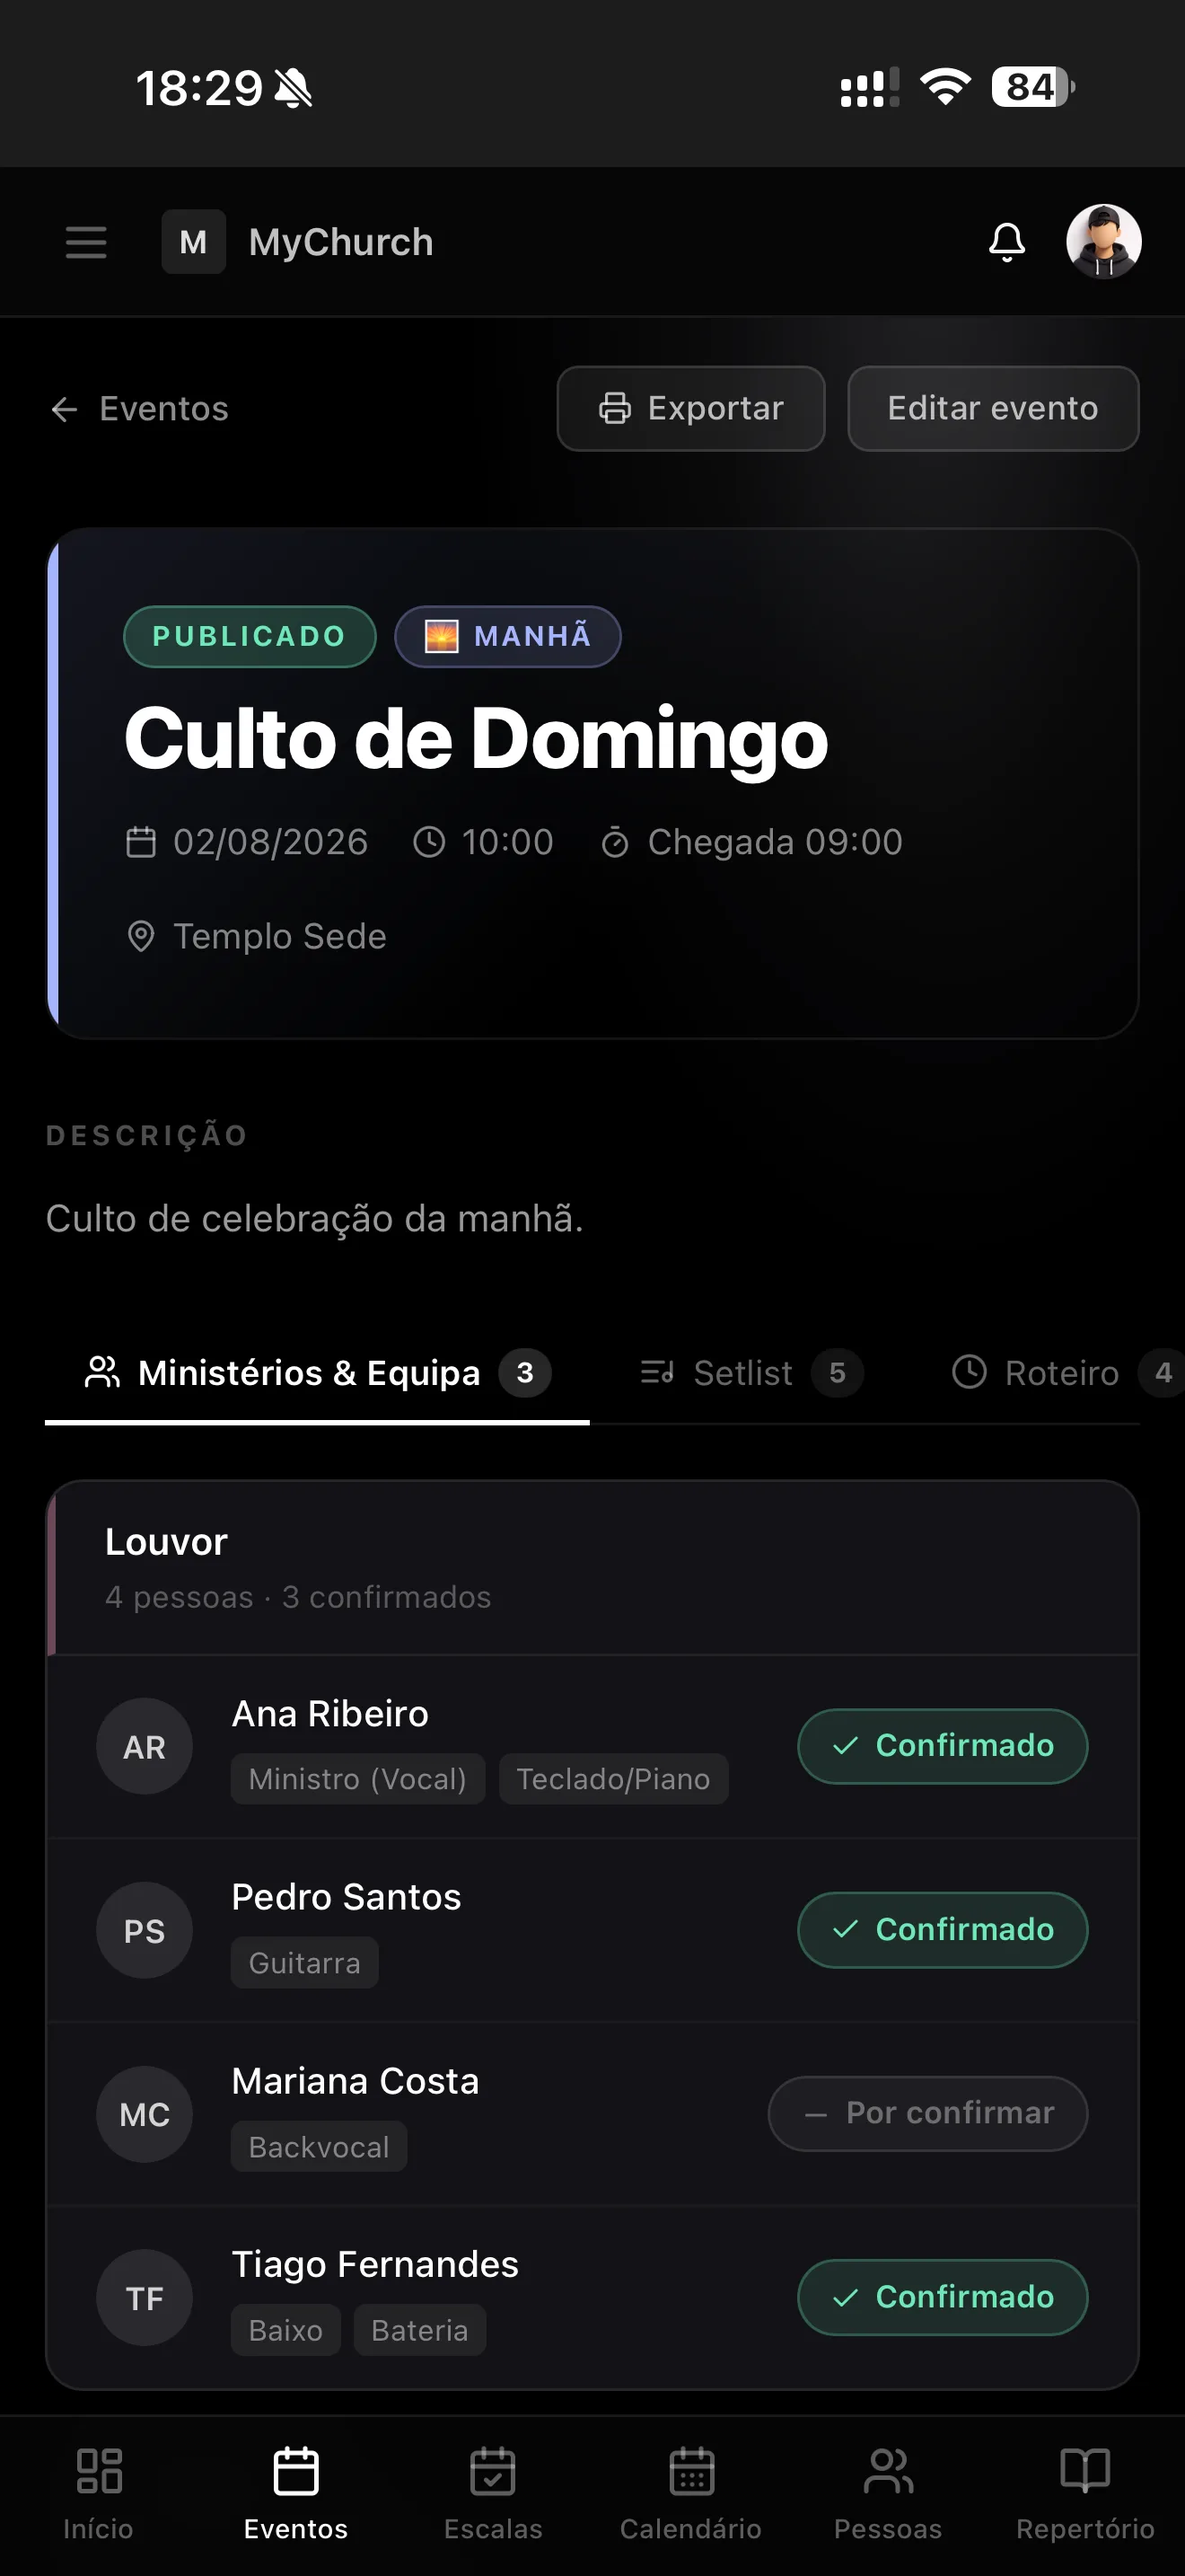
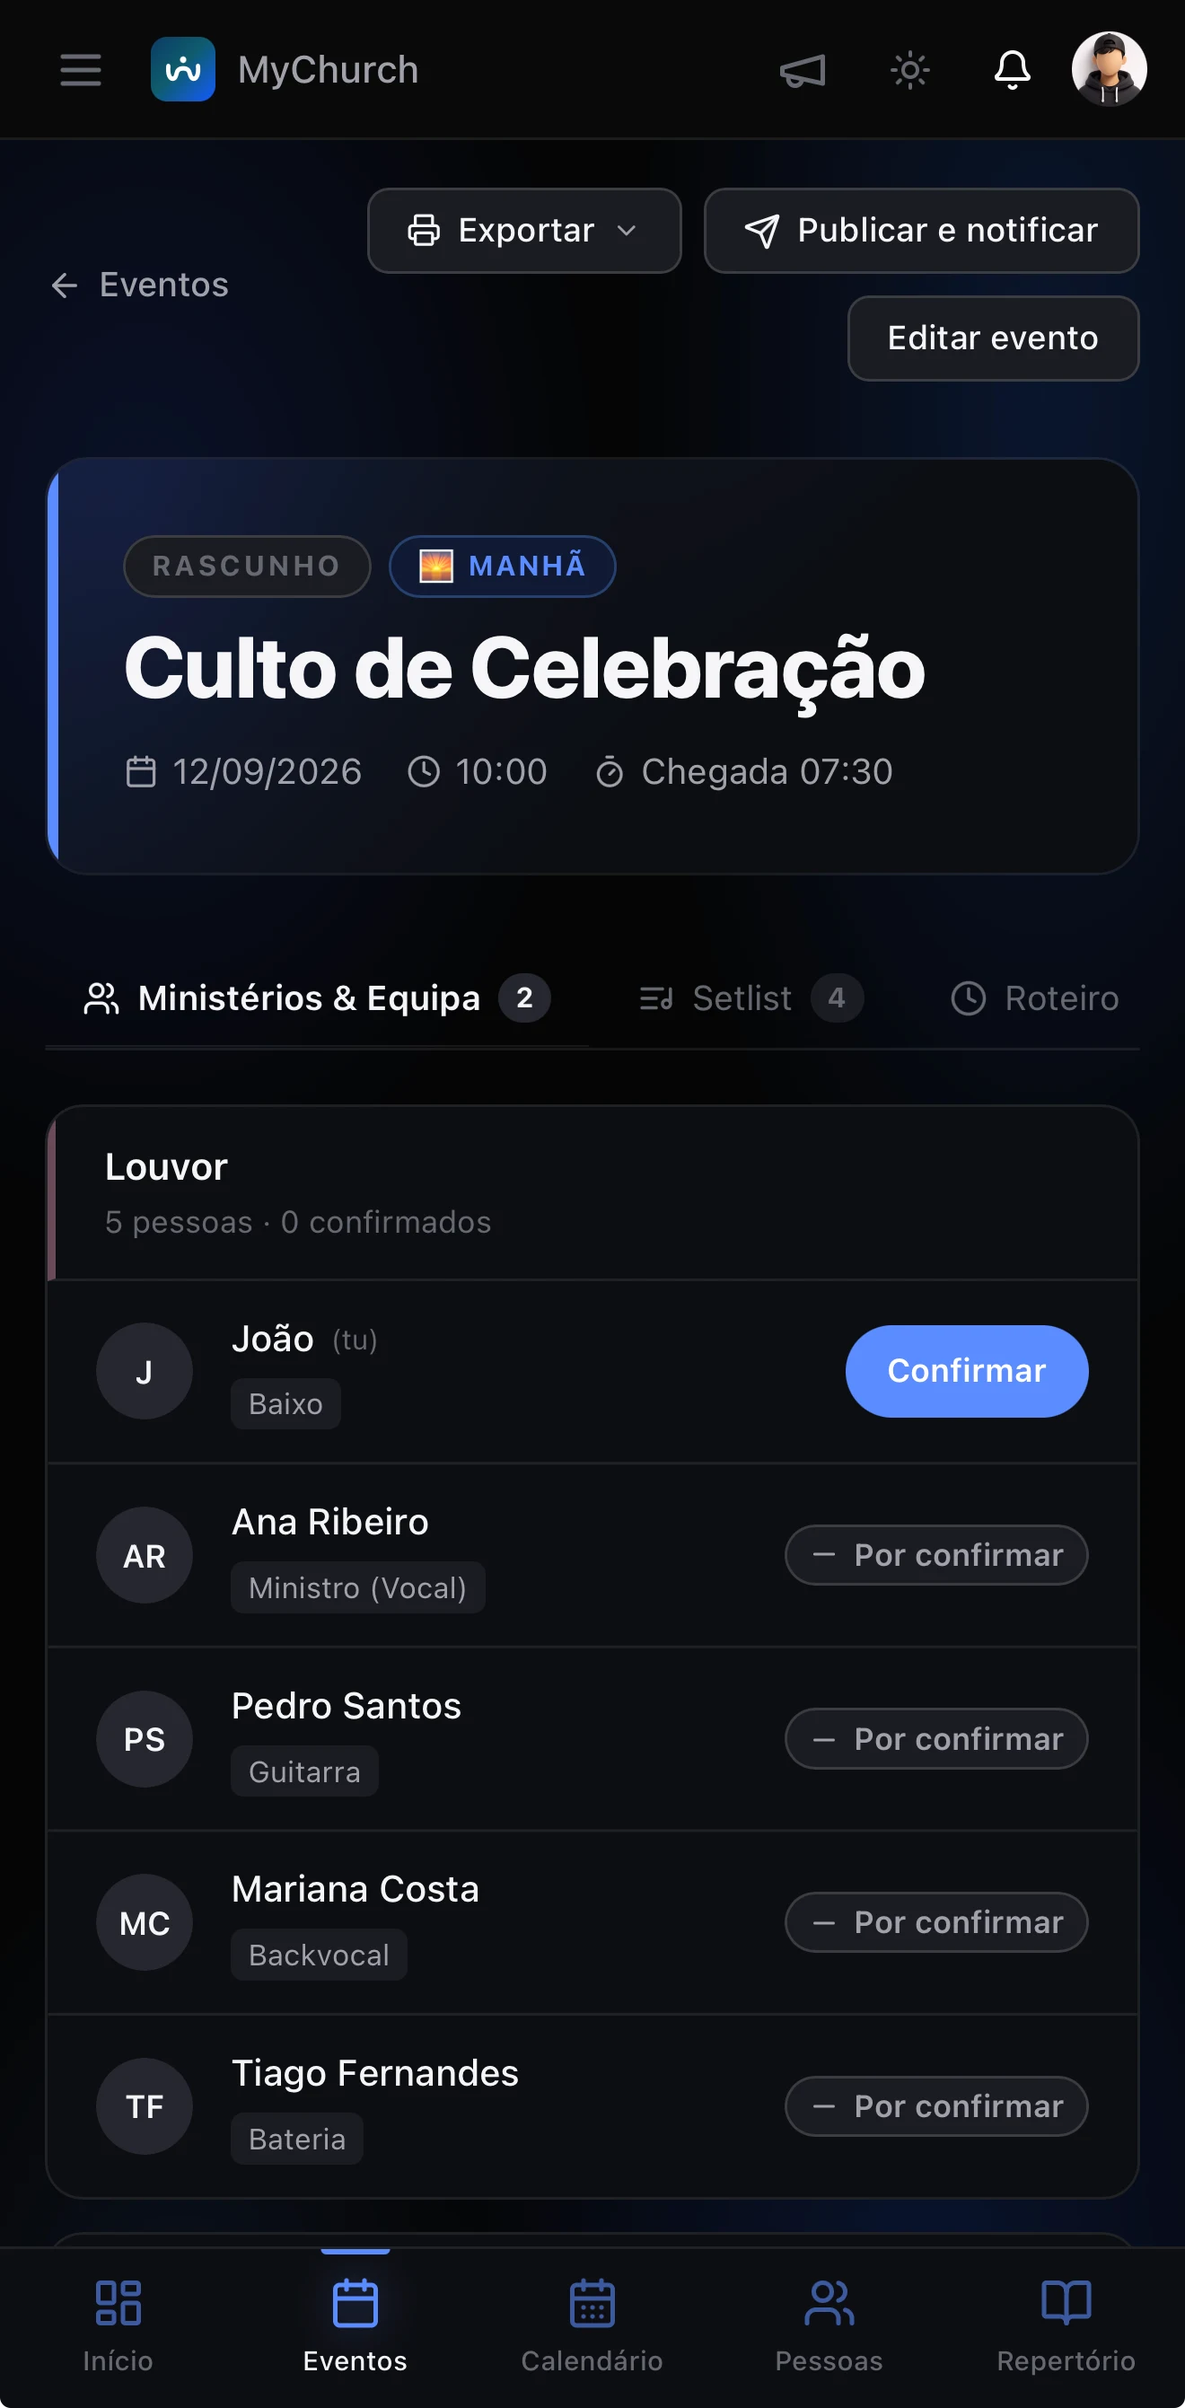
Atualiza screenshots do app na página de planos
Substitui as duas capturas do telemóvel (Ministérios & Equipa e
Setlist) por versões mais recentes da interface, já sem o atalho de
Escalas na barra inferior.

Claude-Session: https://claude.ai/code/session_017rqukuxrJRDkQE7pqkX7iM

diff --git a/src/app/planos/PlanosClient.tsx b/src/app/planos/PlanosClient.tsx
@@ -227,7 +227,7 @@ export function PlanosClient({ plans, adminOrgId }: Props) {
                   src="/screenshots/mobile-eventos-equipa.webp"
                   alt="Tela do WIS no celular, com a equipe escalada de um culto e as confirmações de presença"
                   width={390}
-                  height={844}
+                  height={792}
                   fetchPriority="high"
                 />
               </div>
@@ -412,7 +412,7 @@ export function PlanosClient({ plans, adminOrgId }: Props) {
                   alt="Setlist de um culto no WIS pelo celular, com tom e BPM de cada música"
                   loading="lazy"
                   width={390}
-                  height={844}
+                  height={792}
                 />
               </div>
             </div>
